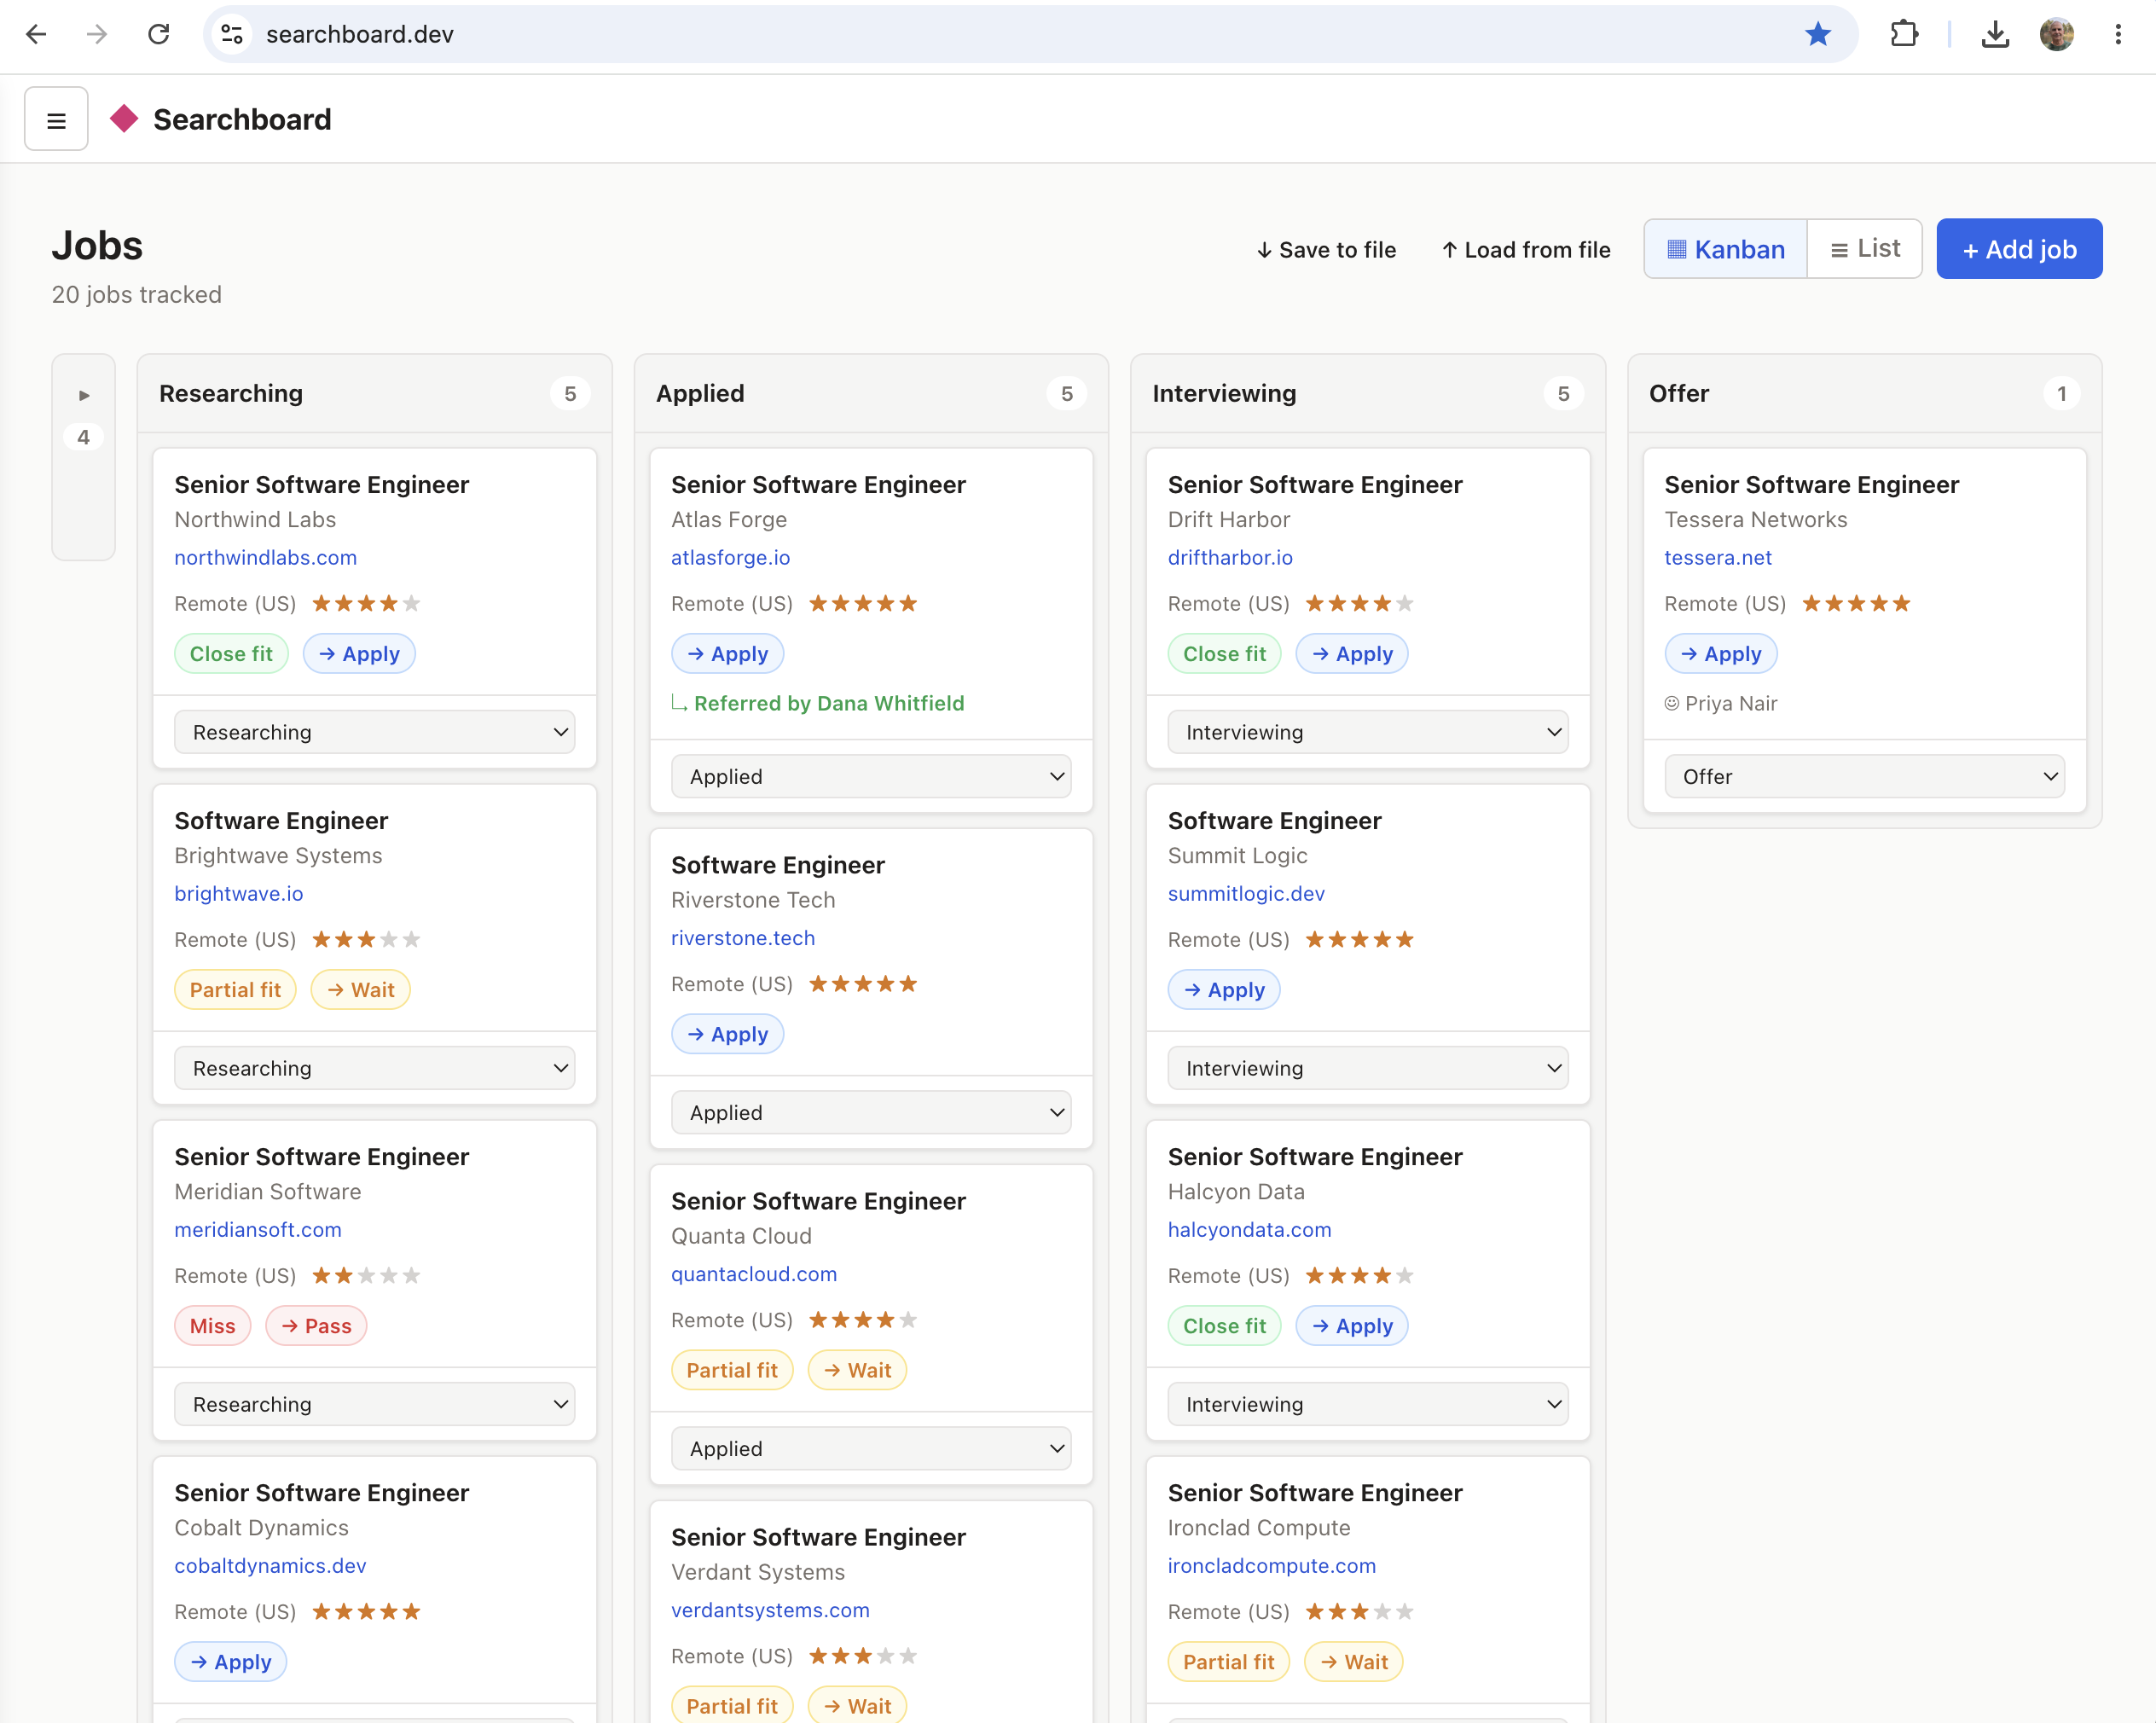
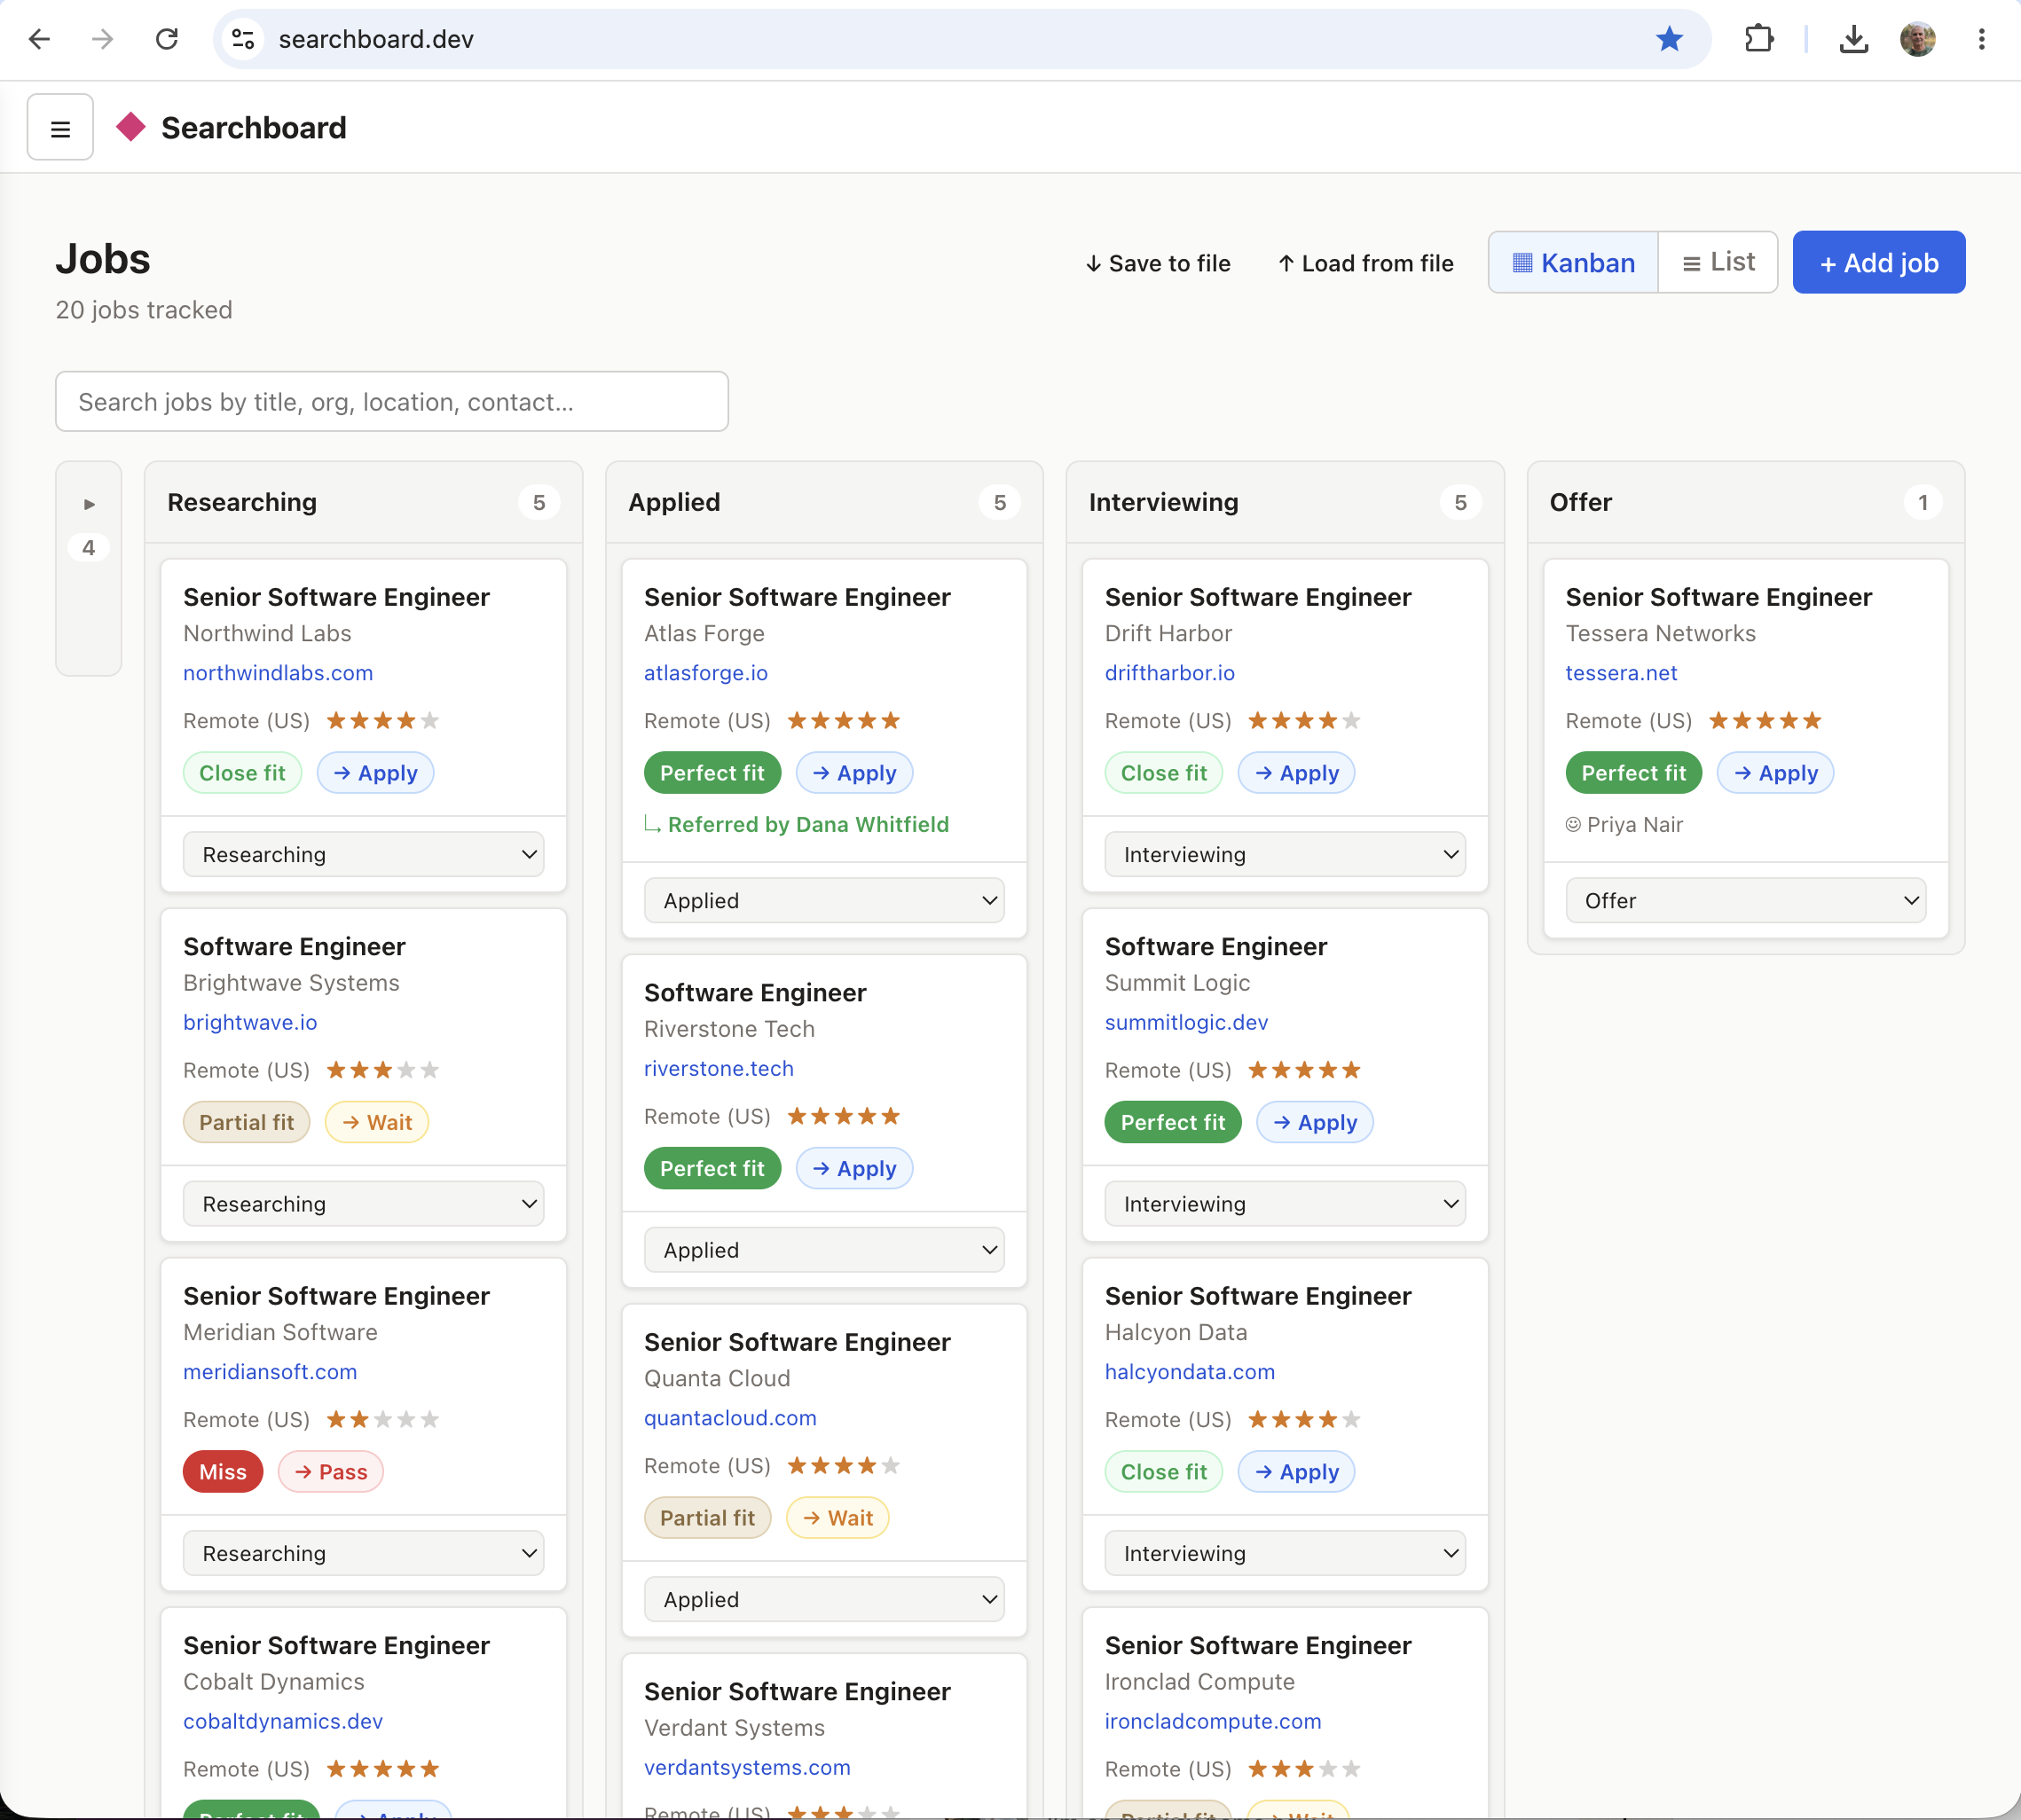
Add "Load sample data" empty-state button; refresh screenshot
The Jobs empty state gains a third action that fetches the checked-in
docs/sample-data.json from GitHub raw and merges it in (non-destructive,
same flow as file import), so a new user can populate the board in one
click. Screenshot updated to show the Perfect-fit badges.

diff --git a/src/pages/Applications.jsx b/src/pages/Applications.jsx
@@ -8,7 +8,14 @@ import Modal from '../components/Modal.jsx';
 import { SelectField, TextArea } from '../components/Field.jsx';
 import ApplicationForm from '../forms/ApplicationForm.jsx';
 import { useDb, useSelectors } from '../lib/db.jsx';
-import { STAGES, CLOSE_REASONS, exportAsFile, importFromFile, mergeDB } from '../lib/store.js';
+import {
+  STAGES,
+  CLOSE_REASONS,
+  exportAsFile,
+  importFromFile,
+  mergeDB,
+  emptyDB
+} from '../lib/store.js';
 import { hasCriteria } from '../lib/fit.js';
 import { formatDate, today } from '../lib/dates.js';
 import { withProtocol, displayUrl } from '../lib/website.js';
@@ -22,6 +29,12 @@ const STAGE_TONE = {
   Closed: 'done'
 };
 
+// The sample board lives in the repo (docs/sample-data.json) and is fetched from
+// GitHub raw on demand, so it isn't bundled into the app. raw.githubusercontent
+// sends `Access-Control-Allow-Origin: *`, so the browser fetch is allowed.
+const SAMPLE_DATA_URL =
+  'https://raw.githubusercontent.com/bobbrose/searchboard/main/docs/sample-data.json';
+
 export default function Applications() {
   const { db, replaceAll } = useDb();
   const { orgName, contactLinksForApp } = useSelectors();
@@ -29,6 +42,7 @@ export default function Applications() {
   const [editing, setEditing] = useState(null); // app record, {} for new, or null
   const [query, setQuery] = useState('');
   const fileRef = useRef(null);
+  const [loadingSample, setLoadingSample] = useState(false);
 
   const hasApps = db.apps.length > 0;
 
@@ -42,47 +56,68 @@ export default function Applications() {
       })
     : db.apps;
 
-  // Merge-import: newer records win, nothing is erased. (Settings still offers a
-  // full replace-import for the rare "start over from this file" case.)
+  // Merge `incoming` into the current data: newer records win, nothing is erased.
+  // Shared by file import and the "Load sample data" fetch. `source` only tweaks
+  // the wording of the confirm/no-op messages.
+  function mergeIncoming(incoming, source = 'this file') {
+    const merged = mergeDB(db, incoming);
+    const COLLECTIONS = ['apps', 'orgs', 'contacts', 'analyses', 'todos'];
+    const added = COLLECTIONS.reduce(
+      (n, k) => n + (merged[k].length - db[k].length),
+      0
+    );
+    const incomingTotal = COLLECTIONS.reduce(
+      (n, k) => n + (incoming[k]?.length || 0),
+      0
+    );
+    const updated = incomingTotal - added; // matched existing ids (newest wins)
+    const changed = COLLECTIONS.some(
+      k =>
+        merged[k].length !== db[k].length ||
+        merged[k].some((rec, i) => rec !== db[k][i])
+    );
+    if (!changed) {
+      alert(`You're already up to date with ${source}. Nothing to merge.`);
+      return;
+    }
+    if (
+      confirm(
+        `Merge ${incomingTotal} record(s) from ${source} into your data?\n\n` +
+          `• ${added} new record(s) added\n` +
+          `• ${updated} matched existing record(s) (newer version kept)\n\n` +
+          `Your current data is not erased.`
+      )
+    ) {
+      replaceAll(merged);
+    }
+  }
+
+  // Merge-import from a file the user picks. (Settings still offers a full
+  // replace-import for the rare "start over from this file" case.)
   async function onImport(e) {
     const file = e.target.files?.[0];
     if (!file) return;
     try {
-      const incoming = await importFromFile(file);
-      const merged = mergeDB(db, incoming);
-      const COLLECTIONS = ['apps', 'orgs', 'contacts', 'analyses', 'todos'];
-      const added = COLLECTIONS.reduce(
-        (n, k) => n + (merged[k].length - db[k].length),
-        0
-      );
-      const incomingTotal = COLLECTIONS.reduce(
-        (n, k) => n + (incoming[k]?.length || 0),
-        0
-      );
-      const updated = incomingTotal - added; // matched existing ids (newest wins)
-      const changed = COLLECTIONS.some(
-        k =>
-          merged[k].length !== db[k].length ||
-          merged[k].some((rec, i) => rec !== db[k][i])
-      );
-      if (!changed) {
-        alert("You're already up to date with this file. Nothing to merge.");
-        return;
-      }
-      if (
-        confirm(
-          `Merge ${incomingTotal} record(s) from this file into your data?\n\n` +
-            `• ${added} new record(s) added\n` +
-            `• ${updated} matched existing record(s) (newer version kept)\n\n` +
-            `Your current data is not erased.`
-        )
-      ) {
-        replaceAll(merged);
-      }
+      mergeIncoming(await importFromFile(file));
     } catch (err) {
       alert(err.message || 'Import failed.');
     } finally {
       e.target.value = ''; // allow re-importing the same file
+    }
+  }
+
+  // Load the demo board checked into the repo (docs/sample-data.json) so a new
+  // user can see a populated board in one click. Merged, never destructive.
+  async function loadSampleData() {
+    setLoadingSample(true);
+    try {
+      const res = await fetch(SAMPLE_DATA_URL, { cache: 'no-store' });
+      if (!res.ok) throw new Error();
+      mergeIncoming({ ...emptyDB(), ...(await res.json()) }, 'the sample data');
+    } catch {
+      alert('Could not load the sample data — check your connection and try again.');
+    } finally {
+      setLoadingSample(false);
     }
   }
 
@@ -171,6 +206,14 @@ export default function Applications() {
                   onClick={() => fileRef.current?.click()}
                 >
                   Load jobs from saved file
+                </button>
+                <button
+                  className="btn btn--ghost"
+                  onClick={loadSampleData}
+                  disabled={loadingSample}
+                  title="Fill the board with a ready-made sample search (20 jobs, orgs, contacts, and a Fit Criteria profile) so you can explore before adding your own."
+                >
+                  {loadingSample ? 'Loading…' : 'Load sample data'}
                 </button>
               </>
             }